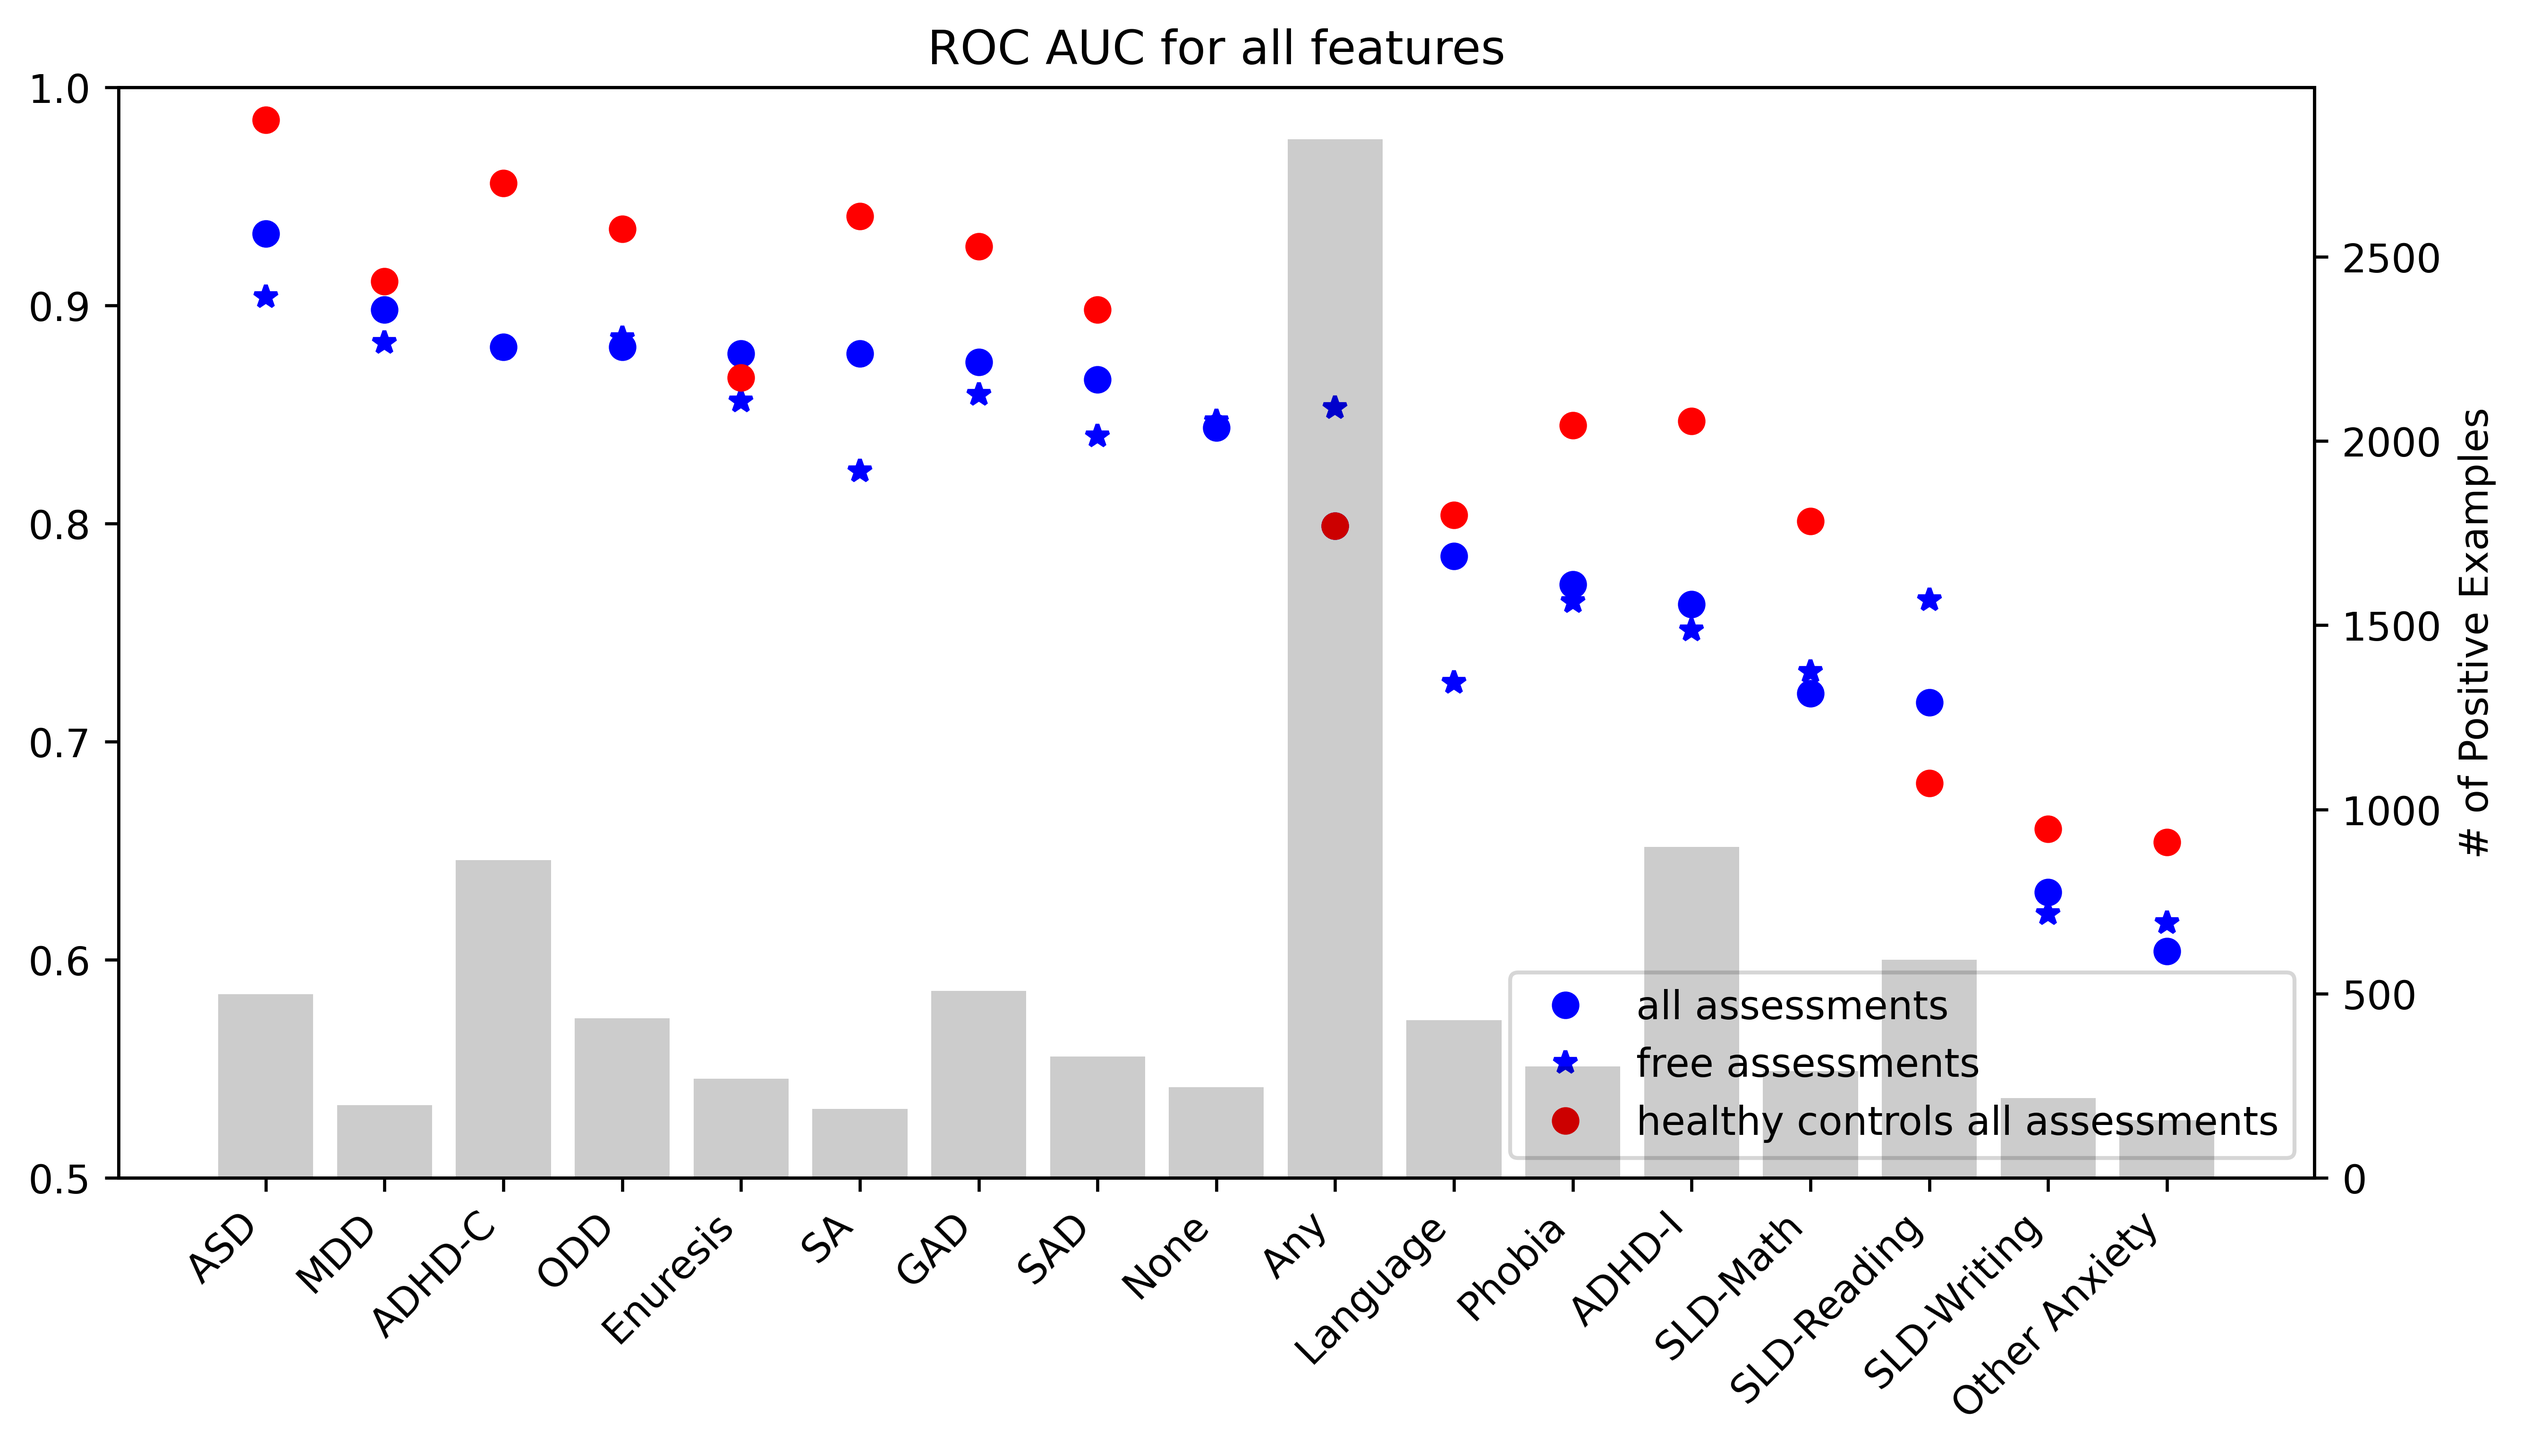
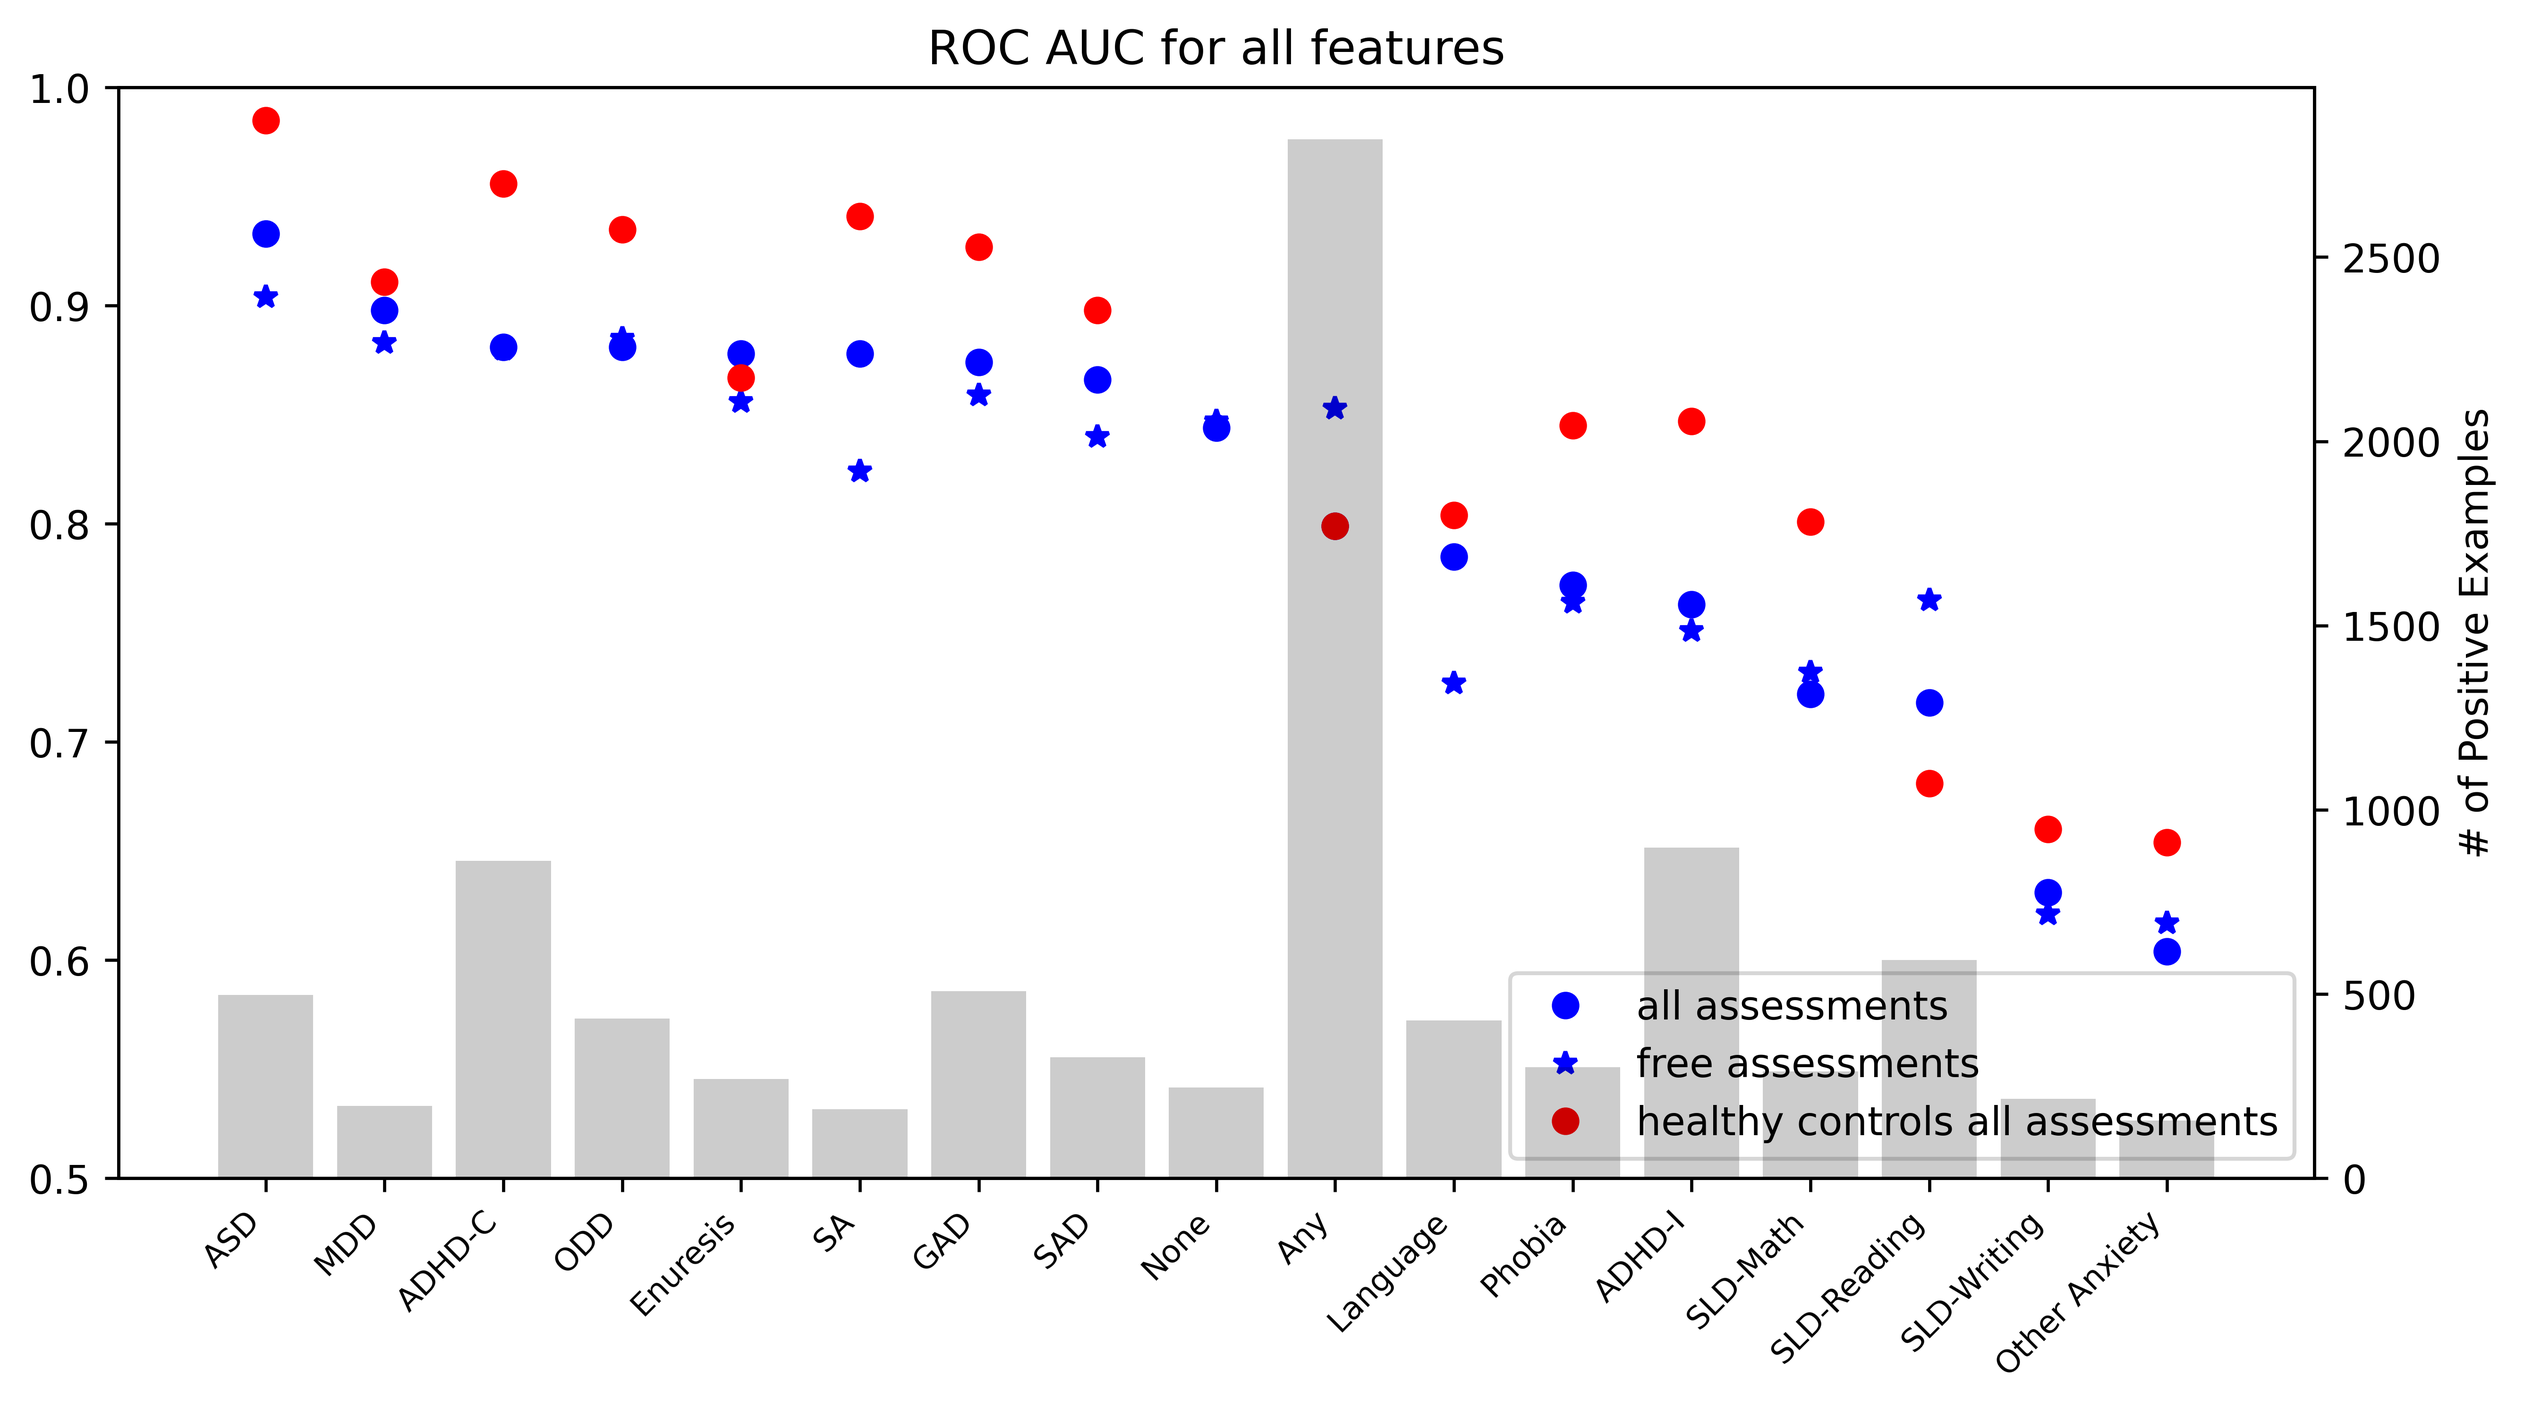
plot opt n of features vs all features

diff --git a/all_vs_opt_features_auc_test_set.py b/all_vs_opt_features_auc_test_set.py
@@ -12,30 +12,46 @@ def remove_prefix_from_diag(diag):
         return diag[5:]
     else:
         return diag
+    
+def read_performance_table():
+    path_all_features = "../diagnosis_predictor_data/reports/evaluate_original_models/"
+    dir_all_features_all_assessments = get_newest_non_empty_dir_in_dir(path_all_features, ["only_free_assessments__0"]) + "performance_table_all_features.csv"
+    dir_all_featrures_free_assessments = get_newest_non_empty_dir_in_dir(path_all_features, ["only_free_assessments__1"]) + "performance_table_all_features.csv"
+    
+    perf_all_features_all_assessments = pd.read_csv(dir_all_features_all_assessments)[["Diag", "ROC AUC"]]
+    perf_all_features_free_assessments = pd.read_csv(dir_all_featrures_free_assessments)[["Diag", "ROC AUC"]]
 
-path_all_features = "../diagnosis_predictor_data/reports/evaluate_original_models/"
-dir_all_features = get_newest_non_empty_dir_in_dir(path_all_features) + "performance_table_all_features.csv"
-path_optimal_features = "../diagnosis_predictor_data/reports/evaluate_models_on_feature_subsets/"
-dir_optimal_features = get_newest_non_empty_dir_in_dir(path_optimal_features) + "auc-on-subsets-test-set-optimal-threshold.csv"
+    path_optimal_features = "../diagnosis_predictor_data/reports/evaluate_models_on_feature_subsets/"
+    dir_optimal_features_all_assessments = get_newest_non_empty_dir_in_dir(path_optimal_features, ["only_free_assessments__0"]) + "auc-sens-spec-on-subsets-test-set-optimal-threshold-optimal-nb-features.csv"
+    dir_optimal_features_free_assessments = get_newest_non_empty_dir_in_dir(path_optimal_features, ["only_free_assessments__1"]) + "auc-sens-spec-on-subsets-test-set-optimal-threshold-optimal-nb-features.csv"
 
-optimal_nb_features = read_dict_from_txt_file(get_newest_non_empty_dir_in_dir(path_optimal_features) + "optimal-nb-features.txt")
+    perf_optimal_features_all_assessments = pd.read_csv(dir_optimal_features_all_assessments, index_col=0)[["Diagnosis", "Number of features", "AUC"]]
+    perf_optimal_features_free_assessments = pd.read_csv(dir_optimal_features_free_assessments, index_col=0)[["Diagnosis", "Number of features", "AUC"]]
 
-all_features_performance = pd.read_csv(dir_all_features)
-print("all features")
-print(all_features_performance)
-optimal_features_performance = pd.read_csv(dir_optimal_features)
-print("optimal features")
-print(optimal_features_performance)
+    # Merge all, add free or all to column names
+    perf_all_features_all_assessments.columns = ["Diag", "ROC AUC all features all assessments"]
+    perf_all_features_free_assessments.columns = ["Diag", "ROC AUC all features free assessments"]
+    perf_optimal_features_all_assessments.columns = ["Diag", "Number of features all assessments", "ROC AUC optimal features all assessments"]
+    perf_optimal_features_free_assessments.columns = ["Diag", "Number of features free assessments", "ROC AUC optimal features free assessments"]
 
-diags = [x for x in optimal_features_performance.columns if x.startswith("Diag.")]
+    result = perf_all_features_all_assessments.merge(perf_all_features_free_assessments, on="Diag")
+    result = result.merge(perf_optimal_features_all_assessments, on="Diag")
+    result = result.merge(perf_optimal_features_free_assessments, on="Diag")
 
-result_table = []
-for diag in diags:
-    opt_nb_features = optimal_nb_features[diag]
-    value_at_opt_nb_features = optimal_features_performance[optimal_features_performance["Number of features"] == opt_nb_features][diag].values[0]
-    value_all_features = all_features_performance[all_features_performance["Diag"] == diag]["ROC AUC"].values[0]
-    result_table.append([remove_prefix_from_diag(diag), opt_nb_features, value_all_features, value_at_opt_nb_features])
+    # Remove decimal points from numbers of features
+    result["Number of features all assessments"] = result["Number of features all assessments"].astype(int)
+    result["Number of features free assessments"] = result["Number of features free assessments"].astype(int)
 
-result_table = pd.DataFrame(result_table, columns=["Diagnosis", "Optimal number of features", "AUCROC with all features", "AUROC at optimal number of features"])
-print(result_table)
-result_table.to_csv("output/compare_auc_at_optimal_nb_features_vs_all_features.csv", float_format='%.3f', index=False)
+    print(result)
+    return result
+
+def main():
+    performance = read_performance_table()
+
+    # Remove prefix from diagnosis names in table
+    performance["Diag"] = performance["Diag"].apply(remove_prefix_from_diag)
+
+    performance.to_csv("output/compare_auc_at_optimal_nb_features_vs_all_features.csv", float_format='%.3f', index=False)
+
+if __name__ == "__main__":
+    main()

diff --git a/make_plots.py b/make_plots.py
@@ -101,7 +101,7 @@ def plot_eval_orig(eval_orig_df):
     plt.plot(eval_orig_df["ROC AUC free assessments"], label="free assessments", marker="*", linestyle="", color="blue")
     plt.plot(eval_orig_df["ROC AUC healthy controls all assessments"], label="healthy controls all assessments", marker="o", linestyle="", color="red")
     #plt.plot(eval_orig_df["ROC AUC healthy controls free assessments"], label="healthy controls free assessments", marker="o", linestyle="--", color="green")
-    plt.xticks(rotation=45, ha="right")
+    plt.xticks(rotation=45, ha="right", size=8)
     plt.legend(loc="lower right")
     plt.ylim([0.5, 1.0])
 
@@ -115,7 +115,7 @@ def plot_eval_orig(eval_orig_df):
     make_dir_if_not_exists(output_dir)
     plt.savefig(output_dir + "ROC_AUC_all_features.png", bbox_inches="tight", dpi=600)
 
-def plot_eval_subsets(eval_subsets_df):
+def plot_manual_vs_ml(eval_subsets_df):
     print("DEBUG", eval_subsets_df.columns)
     plt.figure(figsize=(10, 8))
     plt.title("ROC AUC on test set for subsets of features")
@@ -124,7 +124,7 @@ def plot_eval_subsets(eval_subsets_df):
     plt.plot(eval_subsets_df["Best subscale score"], label="Best subscale (and # of features to reach it with ML)", marker="o", linestyle="", color="red")
     plt.plot(eval_subsets_df["ML score at # of items of best subscale (all assessments)"], label="ML on subscale # of features (all assessments)", marker="o", linestyle="", color="blue")
     #plt.plot(eval_subsets_df["ML score at # of items of best subscale (free assessments)"], label="ML on subscale # of features (free assessments)", marker="o", markerfacecolor='none', linestyle="", color="green")
-    plt.xticks(rotation=45, ha="right")
+    plt.xticks(rotation=45, ha="right", size=8)
     plt.legend(loc="upper right")
 
     # Print number of items next to AUC scores to the right of the markers
@@ -135,11 +135,40 @@ def plot_eval_subsets(eval_subsets_df):
     
     # Append best subscale name to the diag name on x axis
     eval_subsets_df["Best subscale"] = eval_subsets_df["Best subscale"].str.split(",").str[1] # Remove prefix before , from subscale names
-    plt.xticks(range(len(eval_subsets_df.index)), eval_subsets_df.index + " (" + eval_subsets_df["Best subscale"] + ")")
+    plt.xticks(range(len(eval_subsets_df.index)), eval_subsets_df.index + " (" + eval_subsets_df["Best subscale"] + ")", rotation=45, ha="right", size=8)
 
     plt.tight_layout()
     
     plt.savefig("output/viz/ROC_AUC_subsets.png", bbox_inches="tight", dpi=600)
+
+def plot_opt_num_features(eval_subsets_df):
+    opt_vs_all_df = pd.read_csv("output/compare_auc_at_optimal_nb_features_vs_all_features.csv", index_col=0).sort_values(by="ROC AUC optimal features all assessments", ascending=False)
+    
+    # Plot AUC on all features all assessments, AUC on optimal # of features all assessments, AUC on optimal # of features free assessments, AUC on all features free assessments
+    plt.figure(figsize=(10, 8))
+    plt.title("ROC AUC on test set for subsets of features vs all features")
+    plt.plot(opt_vs_all_df["ROC AUC all features all assessments"], label="AUC on all features (all assessments)", marker="o", linestyle="", color="blue")
+    plt.plot(opt_vs_all_df["ROC AUC all features free assessments"], label="AUC on all features (free assessments)", marker="o", linestyle="", color="red")
+    plt.plot(opt_vs_all_df["ROC AUC optimal features all assessments"], label="AUC on optimal # of features (all assessments)", marker="o", linestyle="", color="blue", markerfacecolor='none')
+    plt.plot(opt_vs_all_df["ROC AUC optimal features free assessments"], label="AUC on optimal # of features (free assessments)", marker="o", linestyle="", color="red", markerfacecolor='none')
+    plt.xticks(rotation=45, ha="right", size=8)
+    plt.legend(loc="upper right")
+
+    # Print number of items next to AUC scores to the right of the markers
+    opt_vs_all_df = opt_vs_all_df.reset_index()
+    for i, row in opt_vs_all_df.iterrows():
+        plt.text(i+0.1, row["ROC AUC optimal features all assessments"]-0.001, str(row["Number of features all assessments"]), ha="left", va="center", fontsize=6)
+        plt.text(i+0.1, row["ROC AUC optimal features free assessments"]-0.0005, str(row["Number of features free assessments"]), ha="left", va="center", fontsize=6)
+
+    plt.tight_layout()
+
+    plt.savefig("output/viz/ROC_AUC_optimal_vs_all_features.png", bbox_inches="tight", dpi=600)
+
+
+def plot_eval_subsets(eval_subsets_df):
+
+    plot_manual_vs_ml(eval_subsets_df)
+    plot_opt_num_features(eval_subsets_df)
 
 def main():
     dir_eval_orig_all, dir_eval_orig_free = read_data_eval_orig()
